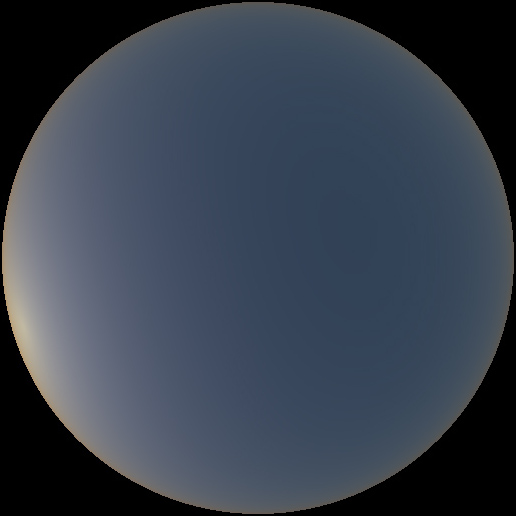
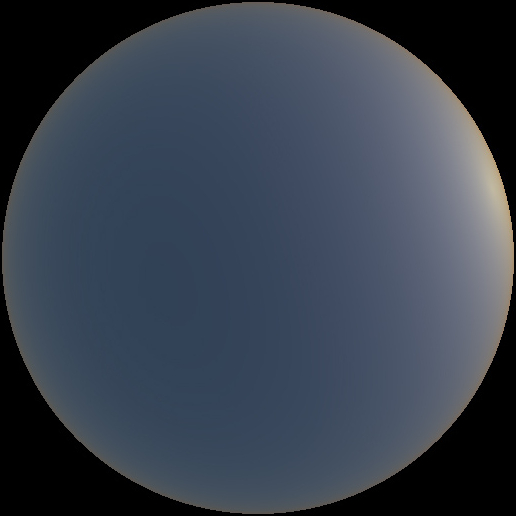
sky light figure updates (flipped horizontally and vertically so that the coordinates make more sense)

diff --git a/src/luminaires/sky.cpp b/src/luminaires/sky.cpp
@@ -78,8 +78,8 @@ MTS_NAMESPACE_BEGIN
  *     \tinyrendering{6PM}{preetham_18}
  *     \tinyrendering{8PM}{preetham_20}\hfill
  *     \vspace{-3mm}
- *     \caption{Time series with the default settings (visualized by
- *     projecting the sky onto a disk)}
+ *     \caption{Time series with the default settings (shown by
+ *     projecting the sky onto a disk. East is left.)}
  * }
  *
  * This plugin implements the physically-based skylight model proposed by 
